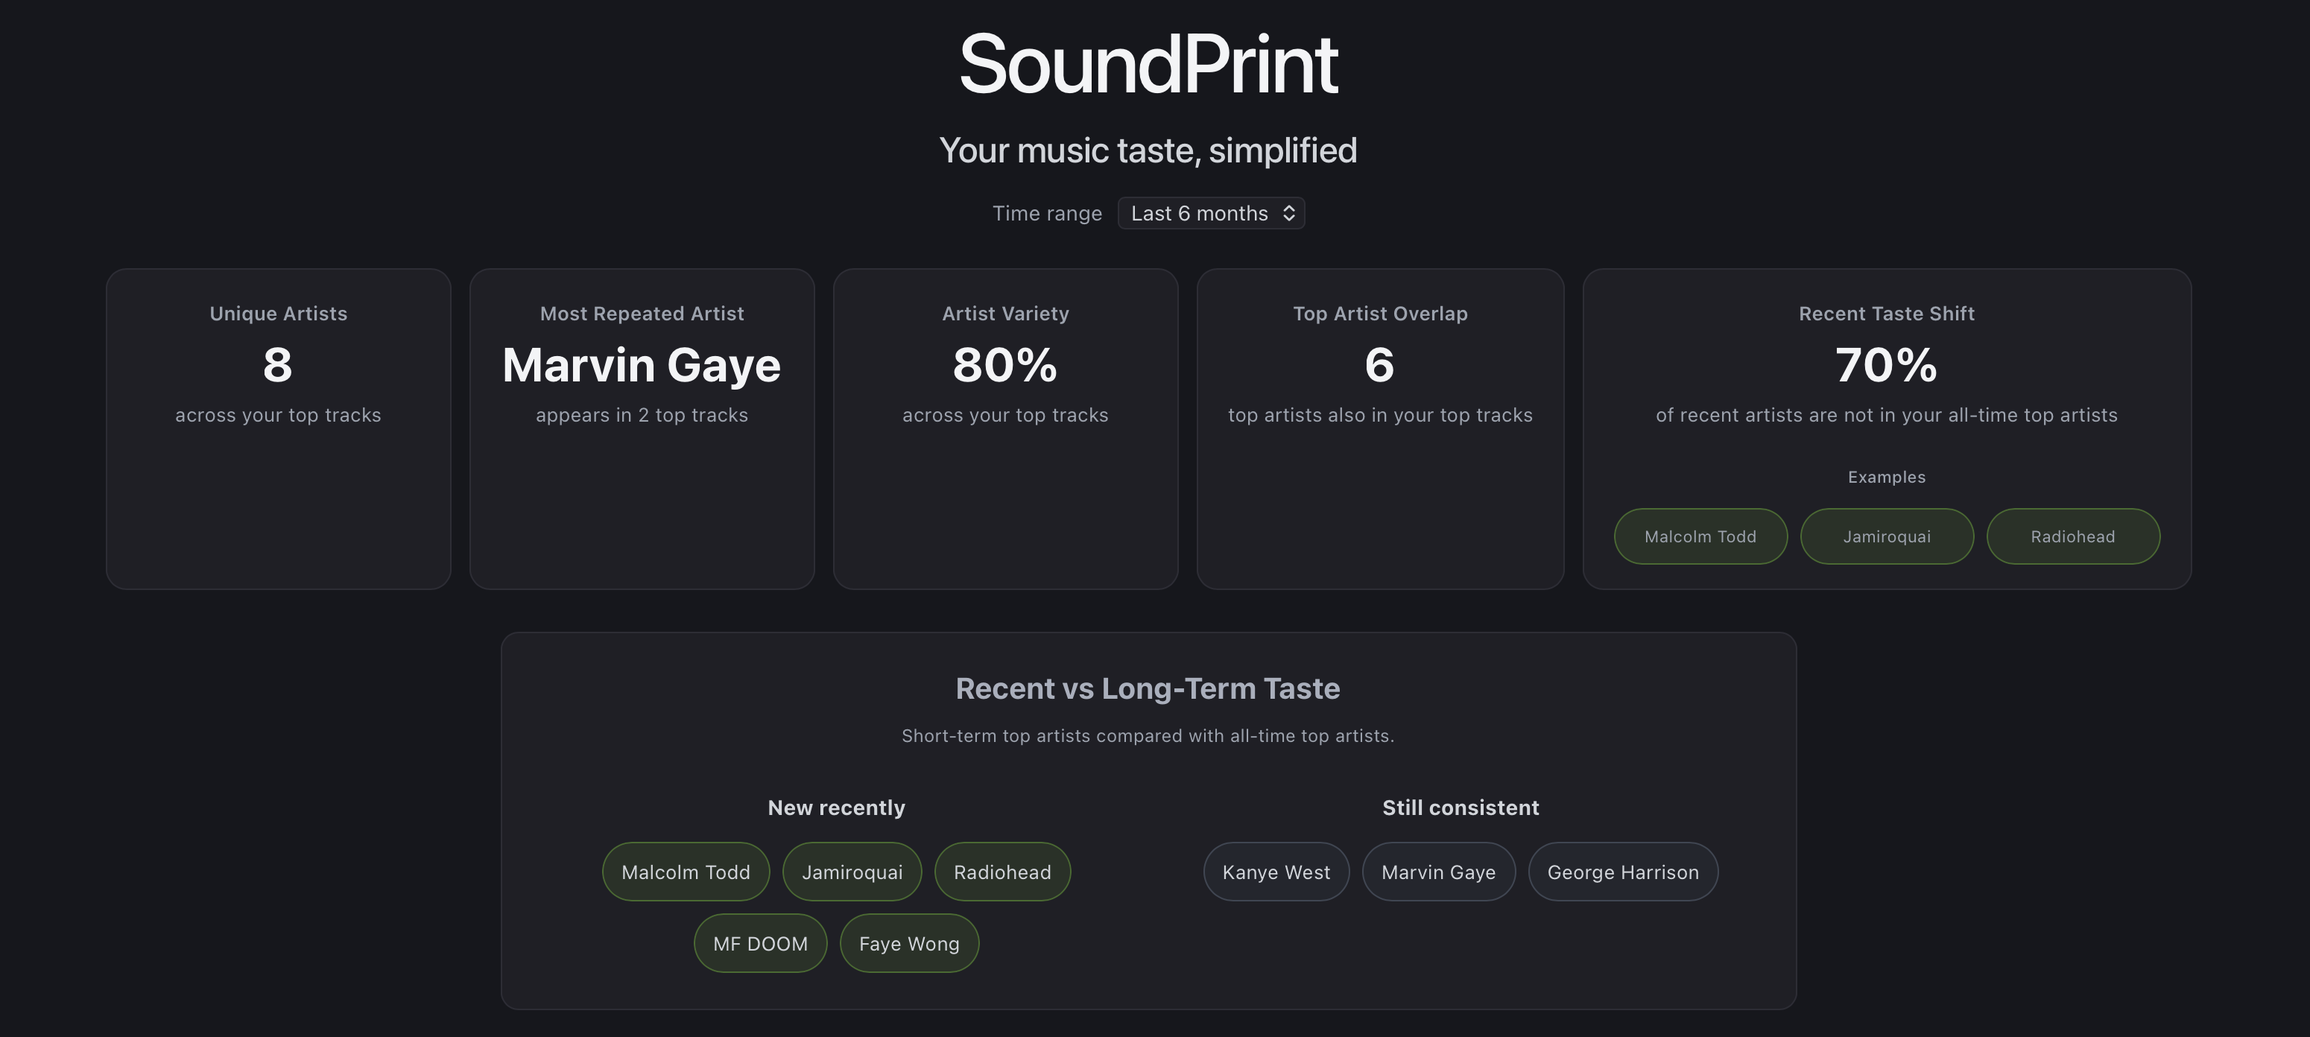
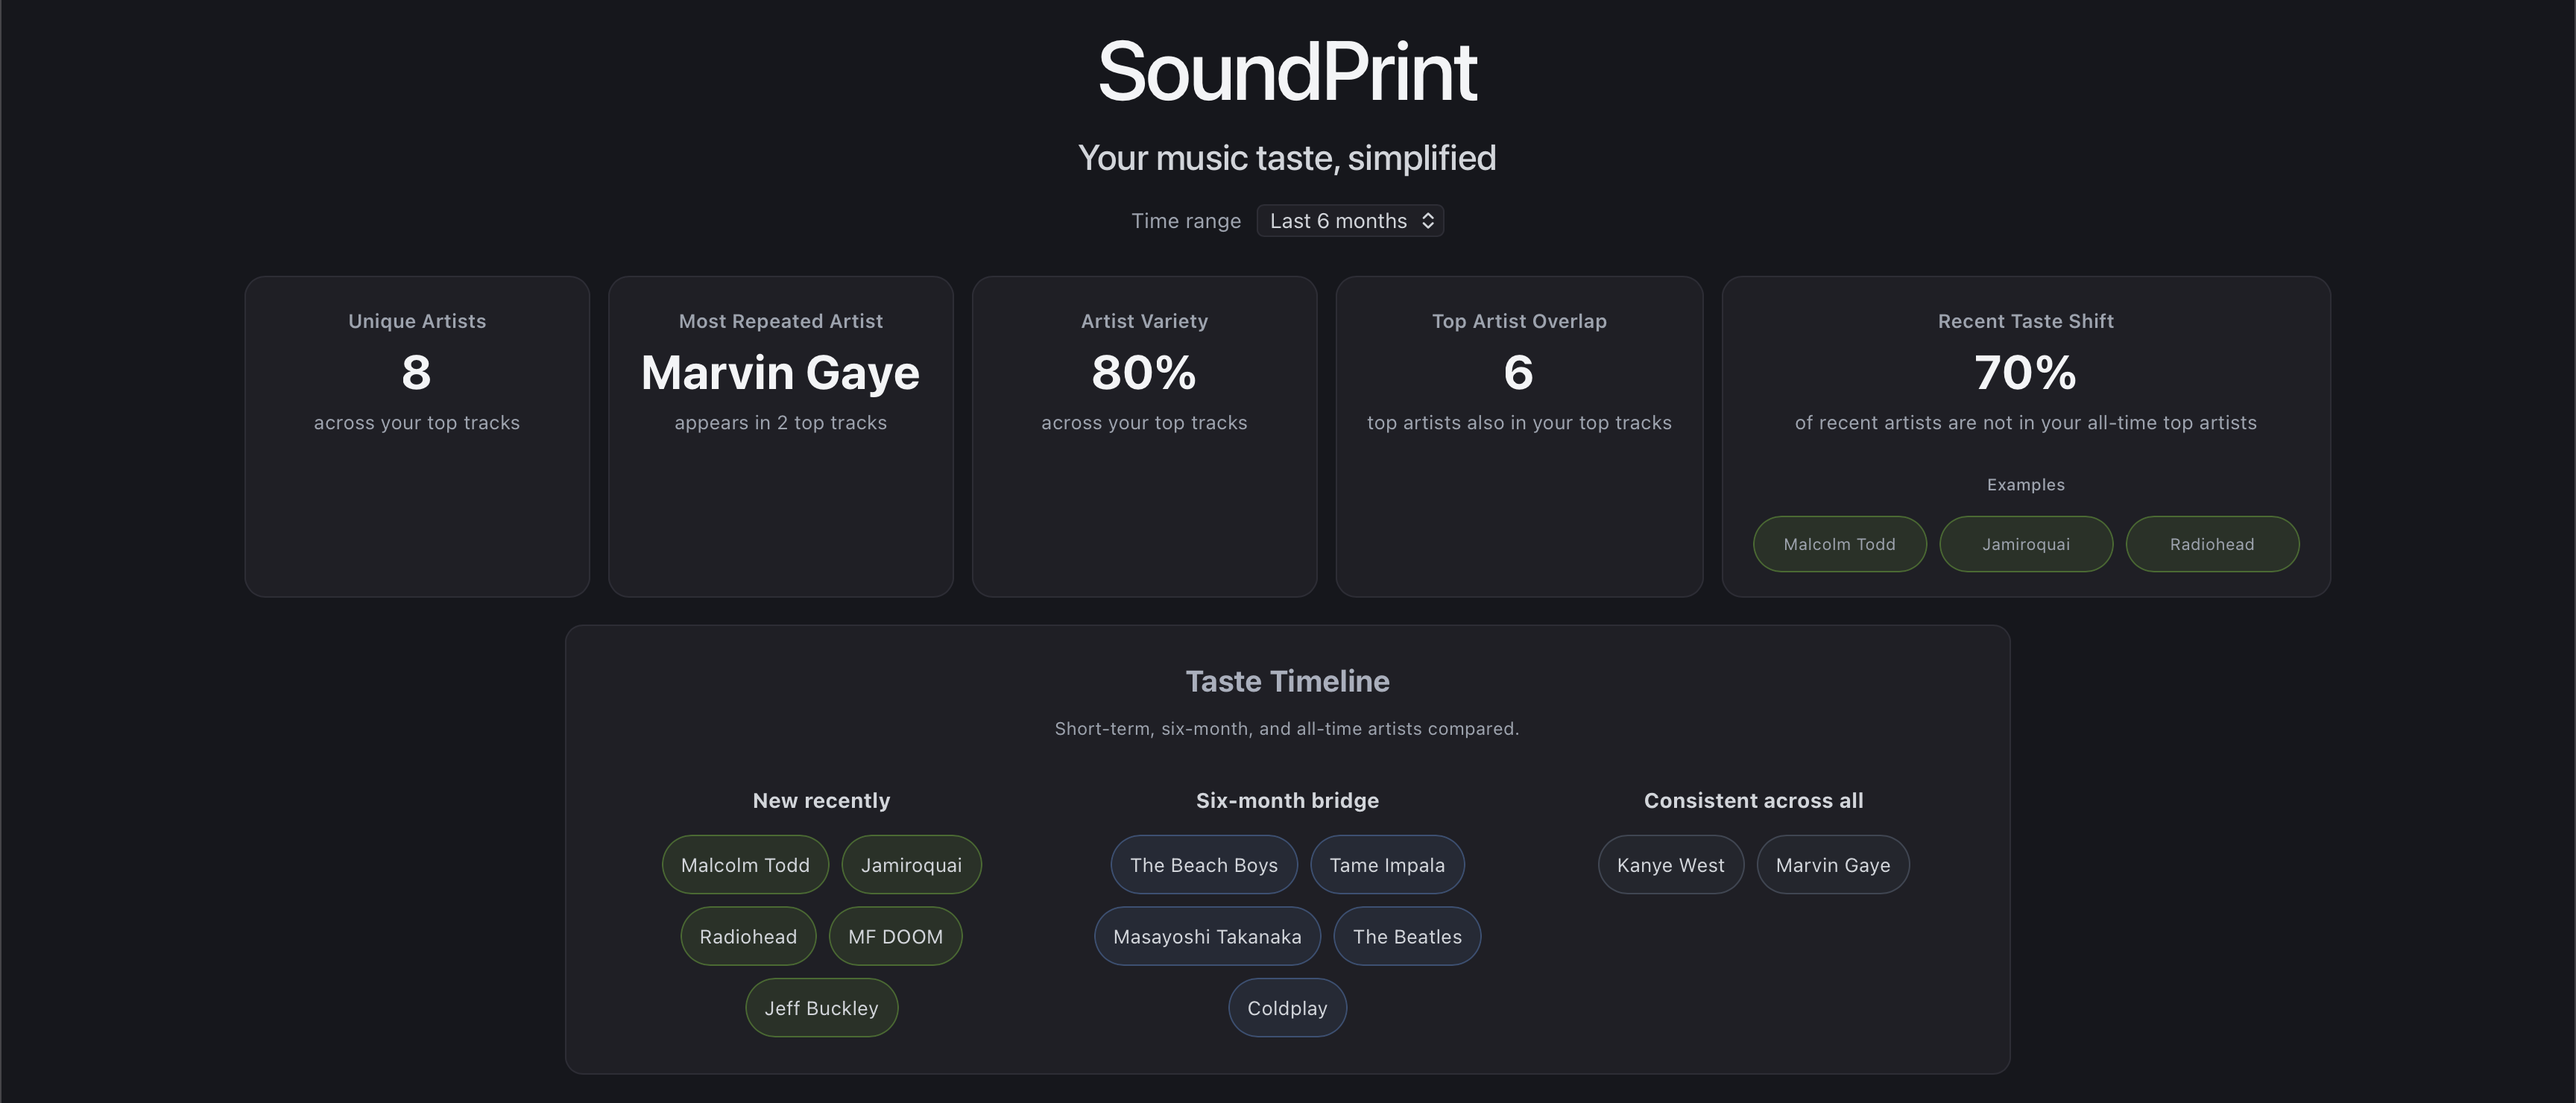
Update README and dashboard overview screenshot

diff --git a/README.md b/README.md
@@ -1,6 +1,6 @@
 # SoundPrint
 
-SoundPrint is a Spotify analytics app that turns listening data into explainable taste insights, taste timeline comparisons, AI-generated summaries, and data-informed artist recommendations.
+SoundPrint is a Spotify analytics app that helps users understand their music taste through listening metrics, taste timelines, AI summaries, and artist recommendations.
 
 ## Screenshots
 
@@ -43,11 +43,13 @@ SoundPrint is a Spotify analytics app that turns listening data into explainable
 
 ## Recommendation System
 
-SoundPrint recommendations are generated from profile signals including top artists, top tracks, artist frequency, artist variety, top artist overlap, repeated artists, and recent taste shift. Each recommendation also receives a simple fit score based on cleaned signal tags and profile metrics such as artist variety, top artist overlap, and recent taste shift. Fit scores start from a base score and increase based on matching recommendation signals and profile-level metrics.
+SoundPrint recommends artists using the user's top artists, top tracks, repeated artists, artist variety, top artist overlap, recent taste shift, and sound profile tags. Gemini generates possible recommendations, but the backend checks the results before they are shown in the app.
 
-Recommended artist names are checked against Spotify Search API results so the app can link to exact artist pages and show artist images when possible. If no exact match is found, SoundPrint falls back to a Spotify search link.
+The backend removes duplicate recommendations, filters out artists already in the user's top artists or recommendation seeds, requires each result to have a name and reason, cleans up signal tags, and limits the list to four artists.
 
-Gemini is used to generate possible artists and explanations, but the backend validates the response before returning it to the frontend. The backend filters out artists already present in the user's top artists or recommendation seeds, removes duplicate results, requires valid names and reasons, cleans up signal tags, and limits results to four recommendations.
+The frontend then searches Spotify for each recommended artist. If it finds an exact artist match, SoundPrint shows the artist image and links directly to the artist's Spotify page. If not, it falls back to a Spotify search link.
+
+Each recommendation also gets a fit score. The score starts from a base value and increases when the recommendation has stronger matching signals.
 
 ## Tech Stack
 
@@ -110,7 +112,7 @@ GEMINI_API_KEY=your_gemini_api_key_here
 ## Roadmap
 
 - Improve recommendation explanations using more of the user's listening patterns
-- Add deeper visualizations for taste-shift patterns
+- Add more visualizations for how taste changes over time
 - Add deeper explanations for why artists move between recent, bridge, and consistent categories
 - Explore taste groups or clusters based on listening patterns
 - Deploy the app
